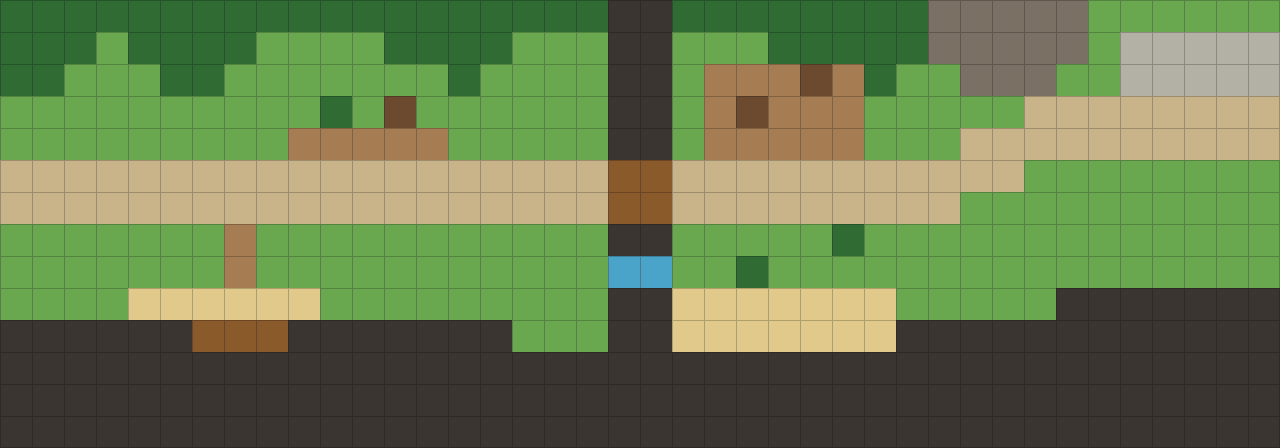
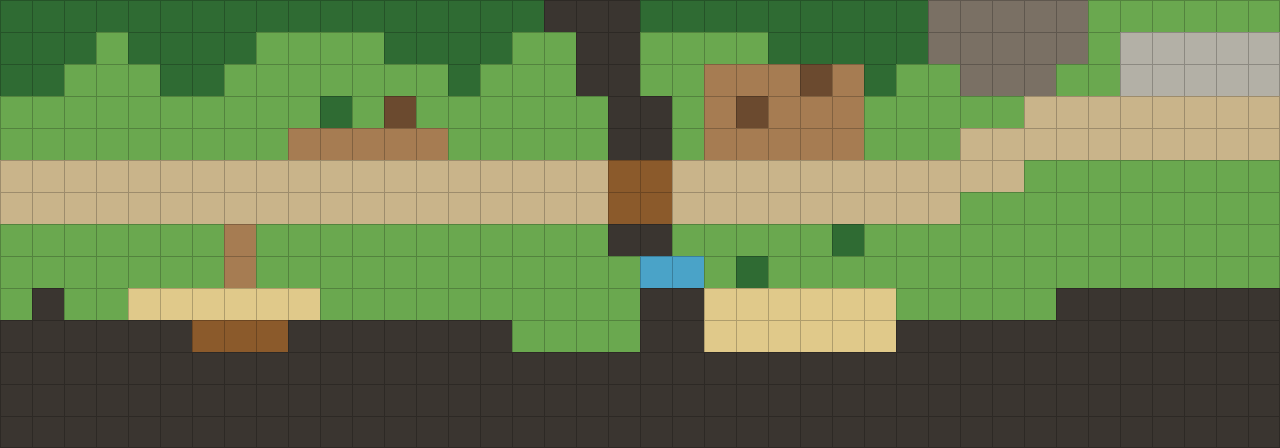
Let the river road's side stream wander
The stream ran ruler straight down columns 19-20 (layout rule: a stream is never straight). It now steps a cell west above the road and a cell east below the bridge, the ford follows it, its head opens to three cells under the trees, and the far west shore bites in a cell so its edge is not a straight run. The bridge, the road and every exit are where the owner walked them.

Claude-Session: https://claude.ai/code/session_01H8JDTPYztrZvUL5HBCK6eR

Changed region(s): [[0.4062, 0.0, 0.5312, 0.2188], [0.4688, 0.5625, 0.5625, 0.8125], [0.0, 0.625, 0.0625, 0.7188]]

diff --git a/src/content/regions/saltstepEmberwatch/maps.ts b/src/content/regions/saltstepEmberwatch/maps.ts
@@ -516,17 +516,17 @@ export const RIVER_ROAD: MapDef = {
   ambience: 'village',
   legend: RG02_LEGEND,
   rows: [
-    'TTTTTTTTTTTTTTTTTTTWWTTTTTTTTXXXXX,,,,,,',
-    'TTT,TTTT,,,,TTTT,,,WW,,,TTTTTXXXXX,^^^^^',
-    'TT,,,TT,,,,,,,T,,,,WW,...F.T,,XXX,,S^^^^',
+    'TTTTTTTTTTTTTTTTTWWWTTTTTTTTTXXXXX,,,,,,',
+    'TTT,TTTT,,,,TTTT,,WW,,,,TTTTTXXXXX,^^^^^',
+    'TT,,,TT,,,,,,,T,,,WW,,...F.T,,XXX,,S^^^^',
     ',,,,,,,,,,T,F,,,,,,WW,.F...,,,,,========',
     ',,,,,,,,,.....,,,,,WW,.....,,,==========',
     '===================ww===========,,,,,,,,',
     '===================ww=========,,,,,,,,,,',
     ',,,,,,,.,,,,,,,,,,,WW,,,,,U,,,,,,,,,,,,,',
-    ',,,,,,,.,,,,,,,,,,,~~,,U,,,,,,,,,,,,,,,,',
-    ',,,,::::::,,,,,,,,,WW:::::::,,,,,WWWWWWW',
-    'WWWWWWwwwWWWWWWW,,,WW:::::::WWWWWWWWWWWW',
+    ',,,,,,,.,,,,,,,,,,,,~~,U,,,,,,,,,,,,,,,,',
+    ',W,,::::::,,,,,,,,,,WW::::::,,,,,WWWWWWW',
+    'WWWWWWwwwWWWWWWW,,,,WW::::::WWWWWWWWWWWW',
     'WWWWWWWWWWWWWWWWWWWWWWWWWWWWWWWWWWWWWWWW',
     'WWWWWWWWWWWWWWWWWWWWWWWWWWWWWWWWWWWWWWWW',
     'WWWWWWWWWWWWWWWWWWWWWWWWWWWWWWWWWWWWWWWW',

diff --git a/docs/art/prompts/maps/river_road.md b/docs/art/prompts/maps/river_road.md
@@ -19,31 +19,31 @@ The river road, the cart road up the river from the coast to Causeway, a day lon
 40 columns by 14 rows, counted from 0 at the top-left corner. The painting is the ground and what stands on it, nothing else: the game draws its own grid, movement contours, units, props and effects over it, so every edge in the painting that matters to the rules sits exactly on a tile edge.
 
 - Road (76 tiles): 38 tiles (middle right), row 3: columns 32–39; row 4: columns 30–39; row 5: columns 21–31; row 6: columns 21–29; a 19×2 block at columns 0–18, rows 5–6 (middle left).
-- Still water (2 tiles): a 2×1 block at columns 19–20, row 8 (the centre).
-- Trees (52 tiles): 35 tiles (top left), row 0: columns 0–18; row 1: columns 0–2, 4–7 and 12–15; row 2: columns 0–1, 5–6 and 14; 14 tiles (top centre), row 0: columns 21–28; row 1: columns 24–28; row 2: column 27; one tile at column 10, row 3 (top left); one tile at column 26, row 7 (the centre); one tile at column 23, row 8 (the centre).
+- Still water (2 tiles): a 2×1 block at columns 20–21, row 8 (the centre).
+- Trees (51 tiles): 33 tiles (top left), row 0: columns 0–16; row 1: columns 0–2, 4–7 and 12–15; row 2: columns 0–1, 5–6 and 14; 15 tiles (top centre), row 0: columns 20–28; row 1: columns 24–28; row 2: column 27; one tile at column 10, row 3 (top left); one tile at column 26, row 7 (the centre); one tile at column 23, row 8 (the centre).
 - Timber walls (3 tiles): one tile at column 25, row 2 (top centre); one tile at column 12, row 3 (top left); one tile at column 23, row 3 (top centre).
-- Stone walls (168 tiles): 156 tiles (bottom centre), row 9: columns 19–20 and 33–39; row 10: columns 0–5, 9–15, 19–20 and 28–39; rows 11–13: columns 0–39; a 2×5 block at columns 19–20, rows 0–4 (top centre); a 2×1 block at columns 19–20, row 7 (the centre).
+- Stone walls (170 tiles): 157 tiles (bottom centre), row 9: columns 1, 20–21 and 33–39; row 10: columns 0–5, 9–15, 20–21 and 28–39; rows 11–13: columns 0–39; 11 tiles (top centre), row 0: columns 17–19; rows 1–2: columns 18–19; rows 3–4: columns 19–20; a 2×1 block at columns 19–20, row 7 (the centre).
 - Cut quarry rock, two steps up (13 tiles): 13 tiles (top right), rows 0–1: columns 29–33; row 2: columns 30–32.
 - Ledges, one step up (10 tiles): a 5×2 block at columns 35–39, rows 1–2 (top right).
-- Sand (20 tiles): a 7×2 block at columns 21–27, rows 9–10 (bottom centre); a 6×1 block at columns 4–9, row 9 (bottom left).
+- Sand (18 tiles): a 6×2 block at columns 22–27, rows 9–10 (bottom centre); a 6×1 block at columns 4–9, row 9 (bottom left).
 - Plank floors (7 tiles): a 2×2 block at columns 19–20, rows 5–6 (the centre); a 3×1 block at columns 6–8, row 10 (bottom left).
-- Open ground everywhere else: grass (189 tiles), bare earth (20 tiles).
+- Open ground everywhere else: grass (190 tiles), bare earth (20 tiles).
 - The party enters from the left, standing at (1, 5), (1, 6), (2, 5), (2, 6), (3, 5), (3, 6); enemies come from the right. Paint nothing there that would read as an object to walk round.
 
 The rows as the rules read them:
 
 ```
-TTTTTTTTTTTTTTTTTTTWWTTTTTTTTXXXXX,,,,,,
-TTT,TTTT,,,,TTTT,,,WW,,,TTTTTXXXXX,^^^^^
-TT,,,TT,,,,,,,T,,,,WW,...F.T,,XXX,,S^^^^
+TTTTTTTTTTTTTTTTTWWWTTTTTTTTTXXXXX,,,,,,
+TTT,TTTT,,,,TTTT,,WW,,,,TTTTTXXXXX,^^^^^
+TT,,,TT,,,,,,,T,,,WW,,...F.T,,XXX,,S^^^^
 ,,,,,,,,,,T,F,,,,,,WW,.F...,,,,,========
 ,,,,,,,,,.....,,,,,WW,.....,,,==========
 ===================ww===========,,,,,,,,
 ===================ww=========,,,,,,,,,,
 ,,,,,,,.,,,,,,,,,,,WW,,,,,U,,,,,,,,,,,,,
-,,,,,,,.,,,,,,,,,,,~~,,U,,,,,,,,,,,,,,,,
-,,,,::::::,,,,,,,,,WW:::::::,,,,,WWWWWWW
-WWWWWWwwwWWWWWWW,,,WW:::::::WWWWWWWWWWWW
+,,,,,,,.,,,,,,,,,,,,~~,U,,,,,,,,,,,,,,,,
+,W,,::::::,,,,,,,,,,WW::::::,,,,,WWWWWWW
+WWWWWWwwwWWWWWWW,,,,WW::::::WWWWWWWWWWWW
 WWWWWWWWWWWWWWWWWWWWWWWWWWWWWWWWWWWWWWWW
 WWWWWWWWWWWWWWWWWWWWWWWWWWWWWWWWWWWWWWWW
 WWWWWWWWWWWWWWWWWWWWWWWWWWWWWWWWWWWWWWWW
